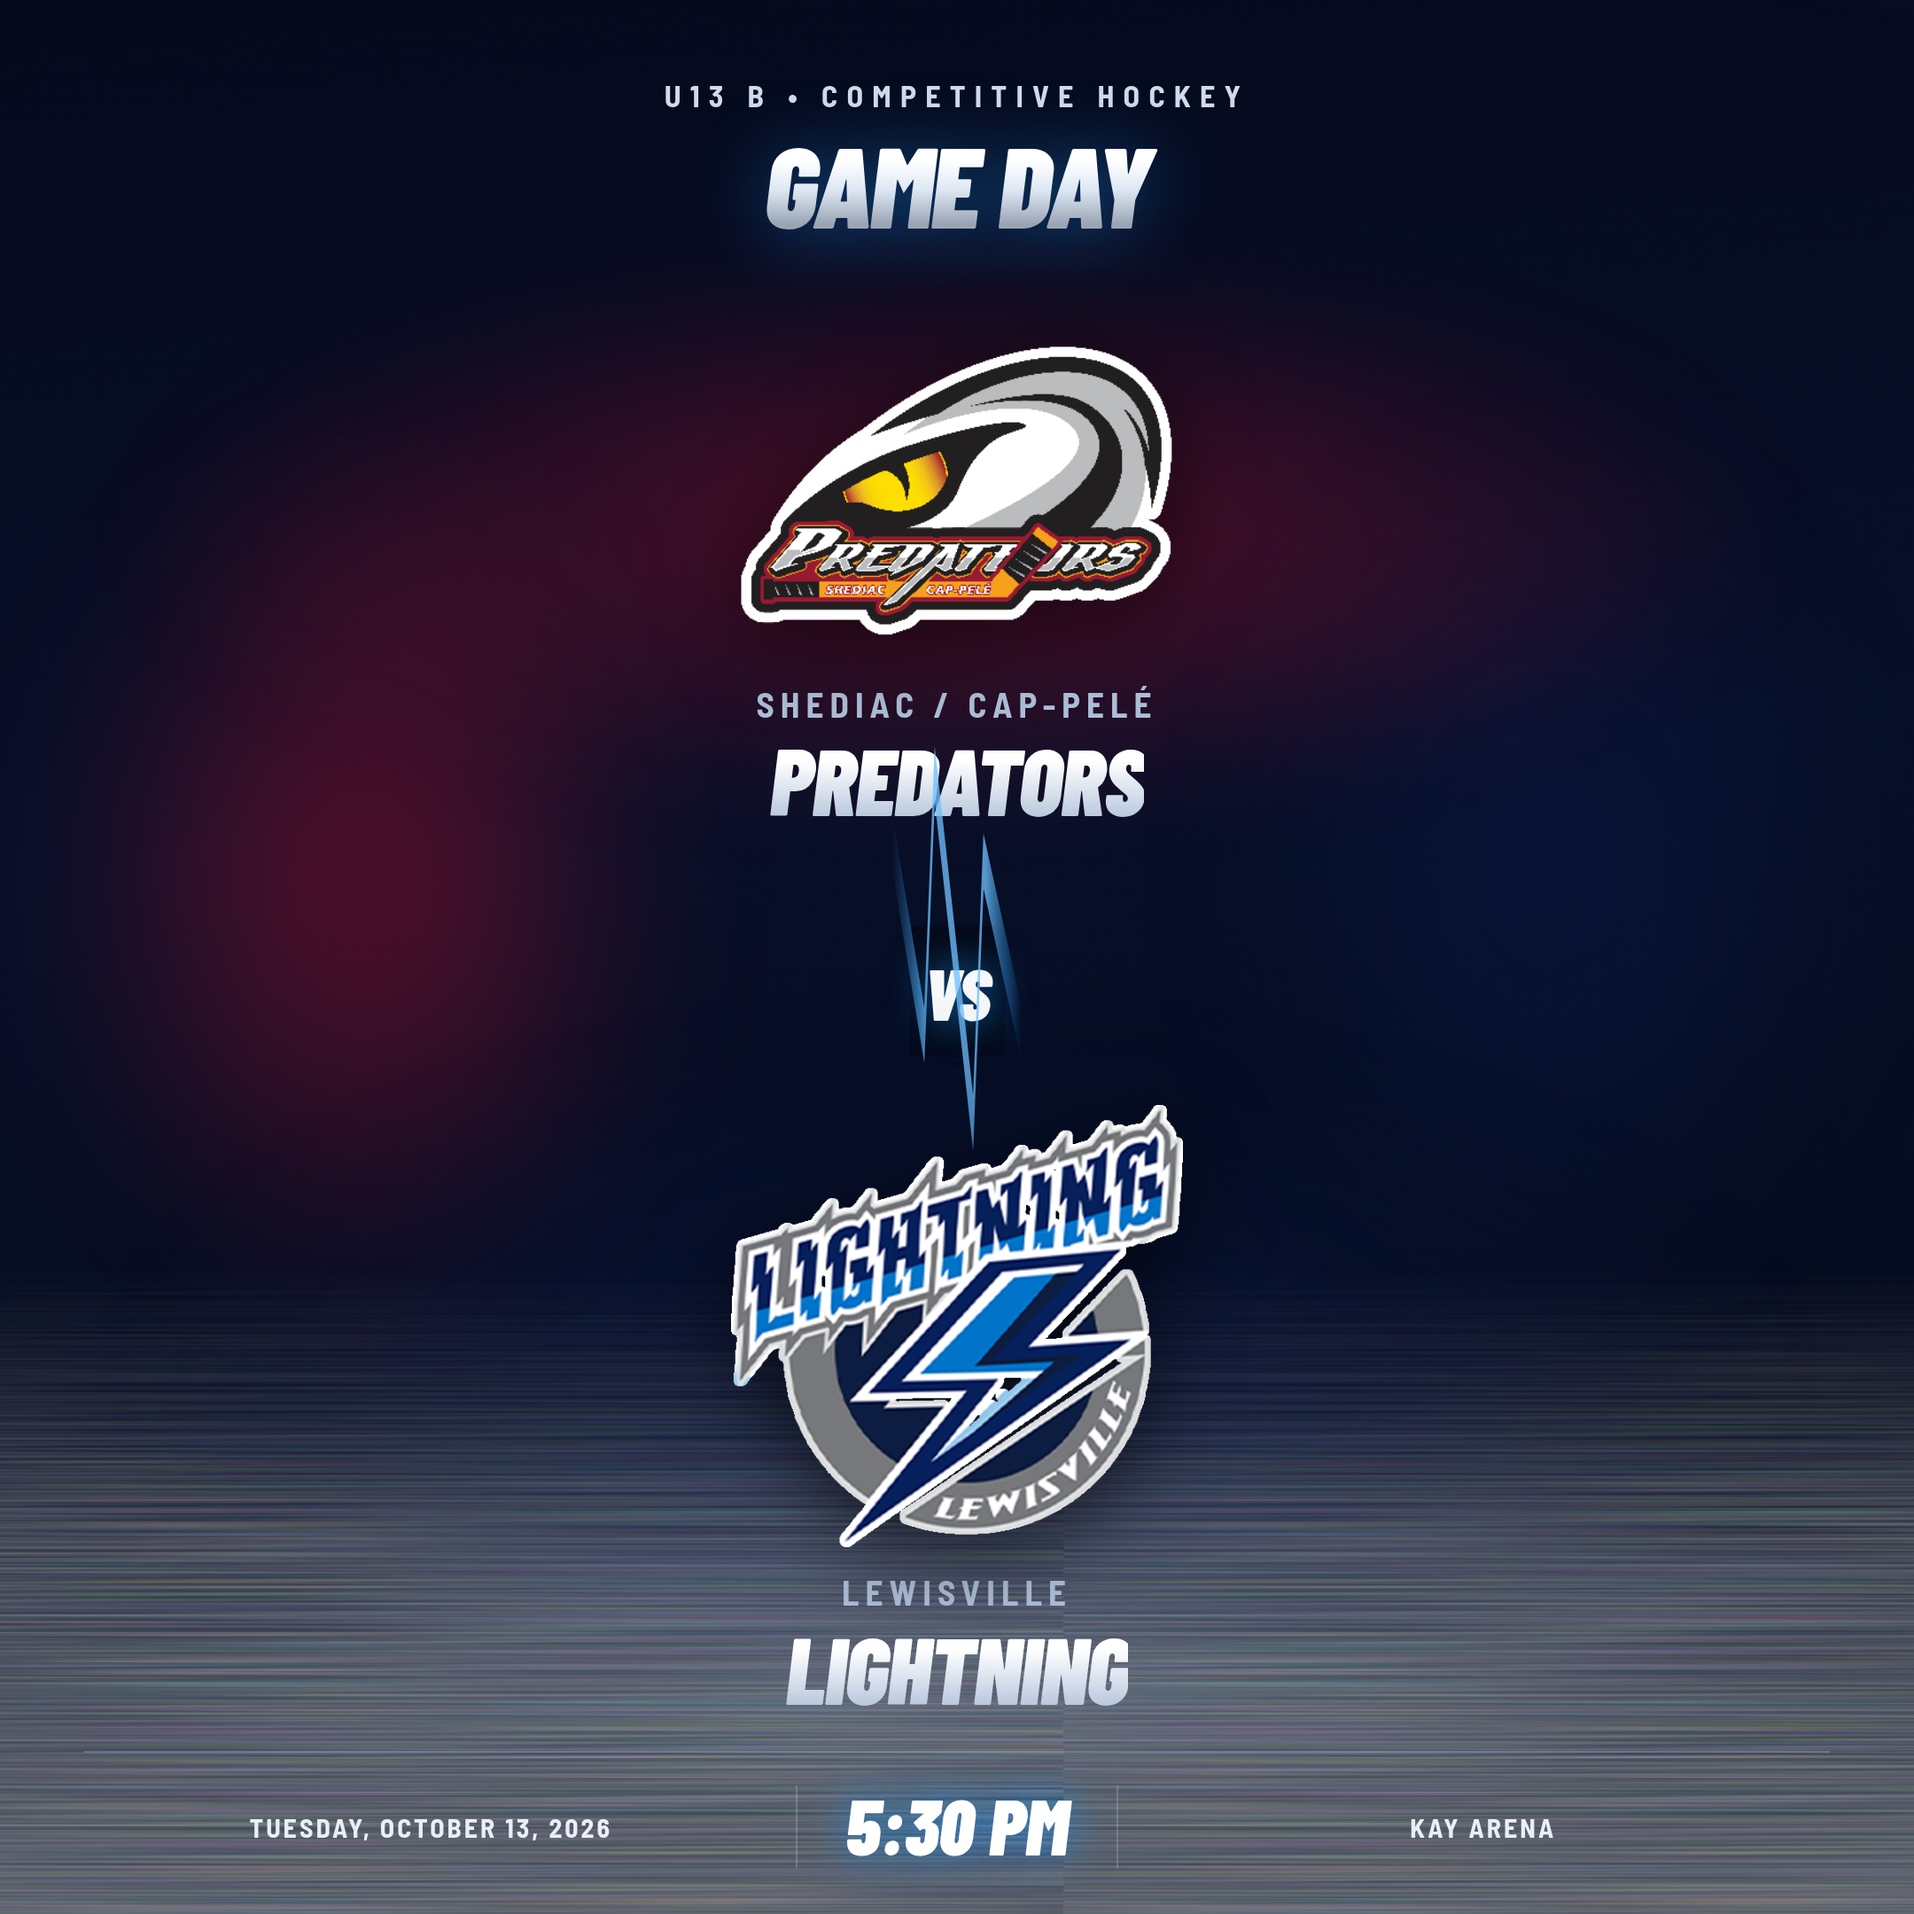
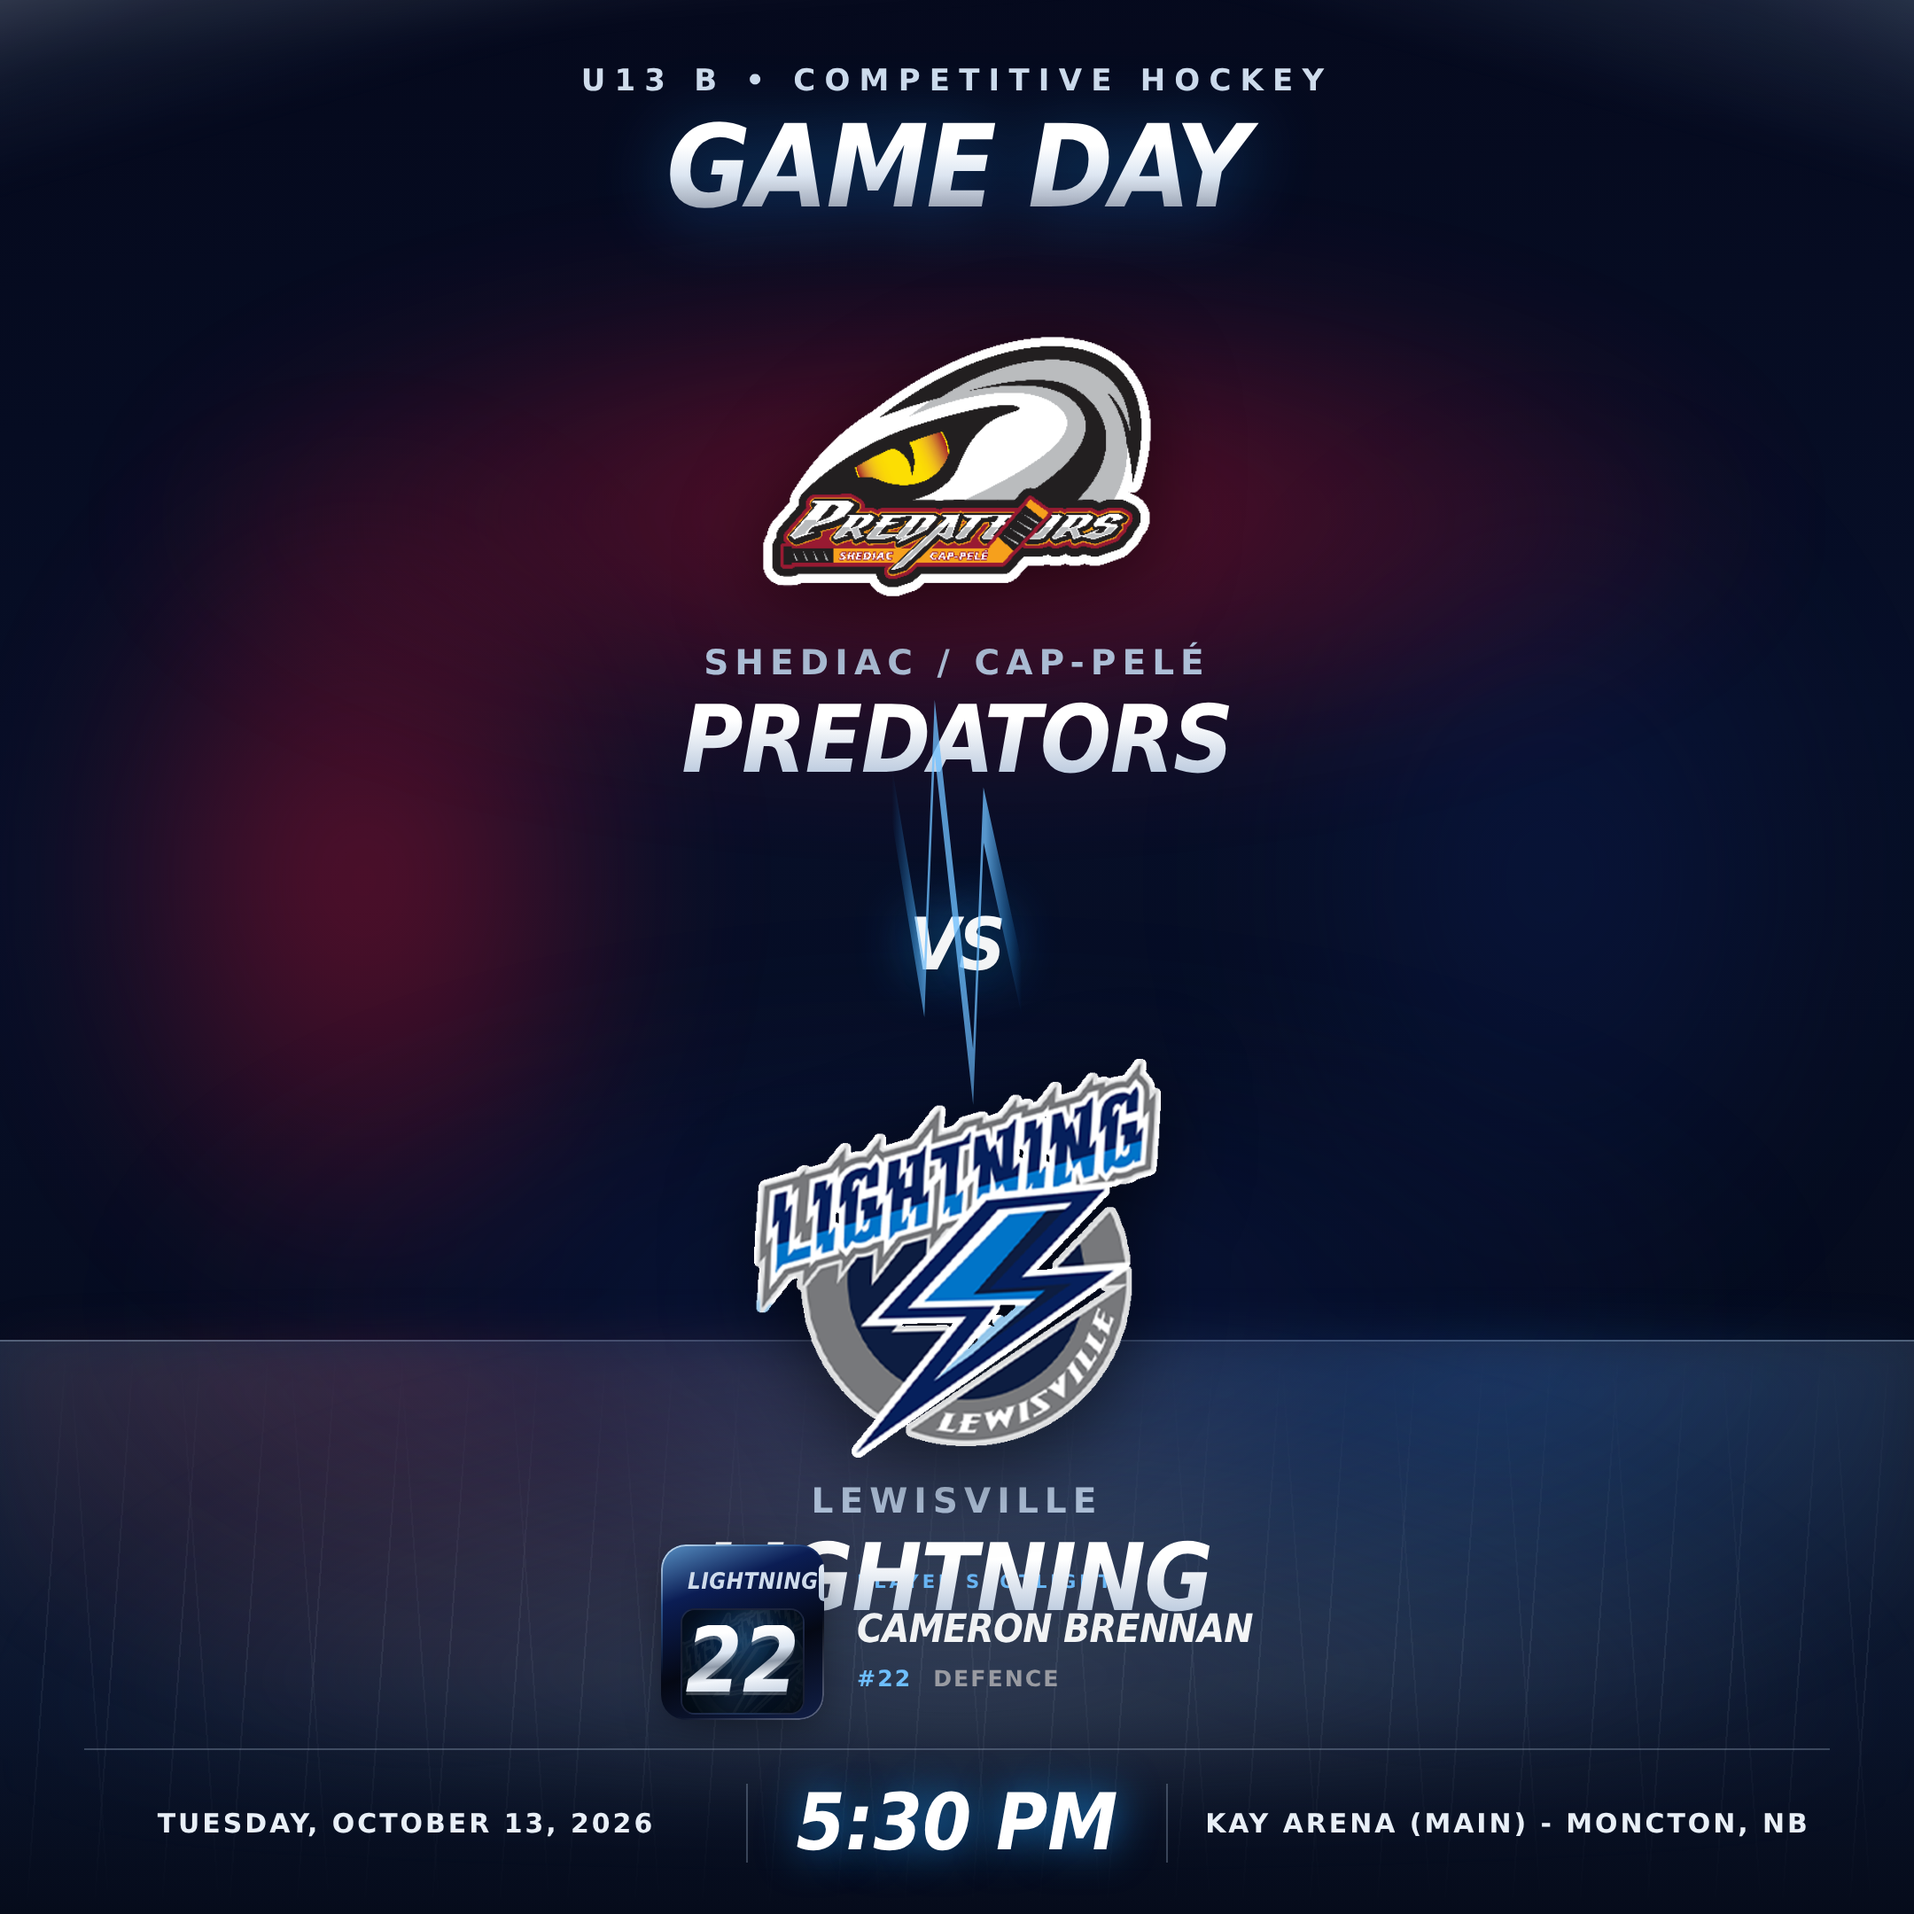
Render all game graphics; document the Spordle sync, spotlight and deploy
docs/DEPLOY.md records the lvlnb.ca deployment and, importantly, why the
nixos-rebuild is NOT run: arachnea's generation is from 2026-10-10 and
flake.lock moved 2026-10-11, so a switch today carries that input bump to all
51 running services on the box. That is a fleet update to be timed by JL, not
a side effect of adding a team site.

diff --git a/README.md b/README.md
@@ -10,13 +10,14 @@ can never drift apart, and no image model ever retypes a date.
 ## Layout
 
 ```
-data/          the contract — schedule, roster, stats, news, opponents
+data/          the contract — schedule, roster, stats, news, opponents, spotlight
 docs/          DATA-CONTRACT.md: what the Spordle sync must produce
 assets/
   brand/       crest extracted at 533x522 + opponent crests
   fonts/       Barlow Condensed / Semi Condensed (OFL), vendored
 site/          Astro site (static output)
 render/        headless-chromium game-day graphics renderer
+tools/spordle/ capture collector + to_data.py adapter onto the contract
 output/<date>/ rendered posters
 ```
 
@@ -84,3 +85,47 @@ steel `#707277`, ice `#ADBFD7`, with `#1C8FE8` as the electric accent. Display
 face is Barlow Condensed Black Italic; UI face is Barlow Semi Condensed. The
 site is dark-only by design — the crest, the ice and the arena light are the
 identity, and a light variant weakened all three.
+
+
+## Syncing from Spordle
+
+The collector captures Spordle views into `private/spordle/223790/` (gitignored
+— it holds real minors' data). The adapter maps those onto the contract:
+
+```
+python3 tools/spordle/to_data.py     # normalized captures -> data/*.json
+cd site && npm run validate
+```
+
+It reports anything it had to guess. Spordle stores names in **ALL CAPS**, and
+on an Acadian roster the correct spelling of a surname is person-specific
+(*LeBlanc* vs *Leblanc*, *Degrâce* vs *DeGrâce*). Names are title-cased with an
+exact-match table for genuinely internal-capital surnames; everything it guesses
+is printed for confirmation and can be pinned in
+`tools/spordle/name-overrides.json`.
+
+Known gaps in the current capture: the schedule is a **partial view** (next 30
+days, 2 games), two dates were captured without detail, and no stats or news
+view has been collected. Standings exist in a capture but are the whole
+association at zero — the season has not started.
+
+## Player spotlight
+
+Every game banner features one player, drawn at random from those not yet
+featured this cycle, so the whole roster gets a turn before anyone repeats.
+
+```
+python3 tools/assign_spotlight.py            # assign any unassigned games
+python3 tools/assign_spotlight.py --status   # show the rotation
+python3 tools/assign_spotlight.py --reassign <game-id>
+```
+
+Assignments persist in `data/spotlight.json` — once a game is assigned, a
+re-render never hands that game to a different player. When all 19 have been
+featured the cycle increments and the pool refills. The card falls back to the
+jersey number until `cardArt` lands in `data/roster.json`.
+
+## Deploying
+
+See `docs/DEPLOY.md`. Short version: it is a static site on arachnea:8111 behind
+basic auth; content updates are an rsync, no rebuild.

diff --git a/docs/DEPLOY.md b/docs/DEPLOY.md
@@ -1,0 +1,74 @@
+# Deploying lvlnb.ca
+
+The site is a static build served by nginx on **arachnea** (192.168.1.20) on
+port **8111**, behind HTTP basic auth, with TLS terminated upstream by NPM.
+
+## One-time setup — status
+
+| step | state |
+|---|---|
+| `hexpi.sites.lvlnb` in `nixos-builds/hosts/arachnea/guests/default.nix` | done, commit `d5bc682` |
+| `/srv/lvlnb` created, `jl:users` | done |
+| `/var/lib/lvlnb/htpasswd` (user `lightning`, bcrypt) | done |
+| site rsynced to `/srv/lvlnb` | done |
+| **`nixos-rebuild switch` on arachnea** | **not run — see below** |
+| NPM proxy-host `lvlnb.ca` → `http://192.168.1.20:8111` | not done (JL, NPM UI) |
+| DNS `lvlnb.ca` → public IP | not done (JL, registrar) |
+
+## The rebuild is deliberately not run
+
+arachnea's current system generation was built **2026-10-10**. `flake.lock` was
+updated **2026-10-11** (`flake.lock: update inputs (helios)`). A
+`nixos-rebuild switch` today therefore ships that input bump to **all 51 running
+services** on the box — nextcloud, immich, postgres, cdecb, honda, the arr
+stack — not just this new vhost. That is a fleet update, and it is JL's to
+time, not something to trigger as a side effect of adding a team website.
+
+When you want it:
+
+```
+cd ~/repos/HexPi/nixos-builds
+nixos-rebuild switch --flake .#arachnea --target-host arachnea \
+  --build-host arachnea --use-remote-sudo
+```
+
+`--build-host arachnea` matters: this workstation does not have arachnea's
+closure, so building locally would fetch an enormous amount for nothing.
+
+Rollback if anything misbehaves:
+
+```
+ssh arachnea 'sudo nixos-rebuild switch --rollback'
+```
+
+The nginx config is validated at *build* time by NixOS, so a syntax error fails
+the build rather than taking pa-web and dpt-plans down at switch time. The
+config was evaluated already and emits the expected vhost, headers, auth and
+firewall port.
+
+## Publishing a content update
+
+Content changes need no rebuild — only an rsync:
+
+```
+cd site && npm run build
+rsync -a --delete dist/ arachnea:/srv/lvlnb/
+```
+
+## Changing the team password
+
+```
+nix shell nixpkgs#apacheHttpd -c htpasswd -nbB lightning 'NEW-PASSWORD' \
+  | ssh arachnea 'sudo tee /var/lib/lvlnb/htpasswd >/dev/null
+                  && sudo chown nginx:nginx /var/lib/lvlnb/htpasswd
+                  && sudo chmod 640 /var/lib/lvlnb/htpasswd'
+```
+
+No nginx reload is needed — `auth_basic_user_file` is read per request.
+
+## Why basic auth
+
+The roster is nineteen 12-year-olds rendered with full names and photo cards,
+next to the exact arena and time of every game. JL's call (2026-10-12) was full
+detail behind a login. `data/roster.json`'s `privacy` block can still reduce
+what renders if that changes — it is one line, and the site rebuilds from it.
